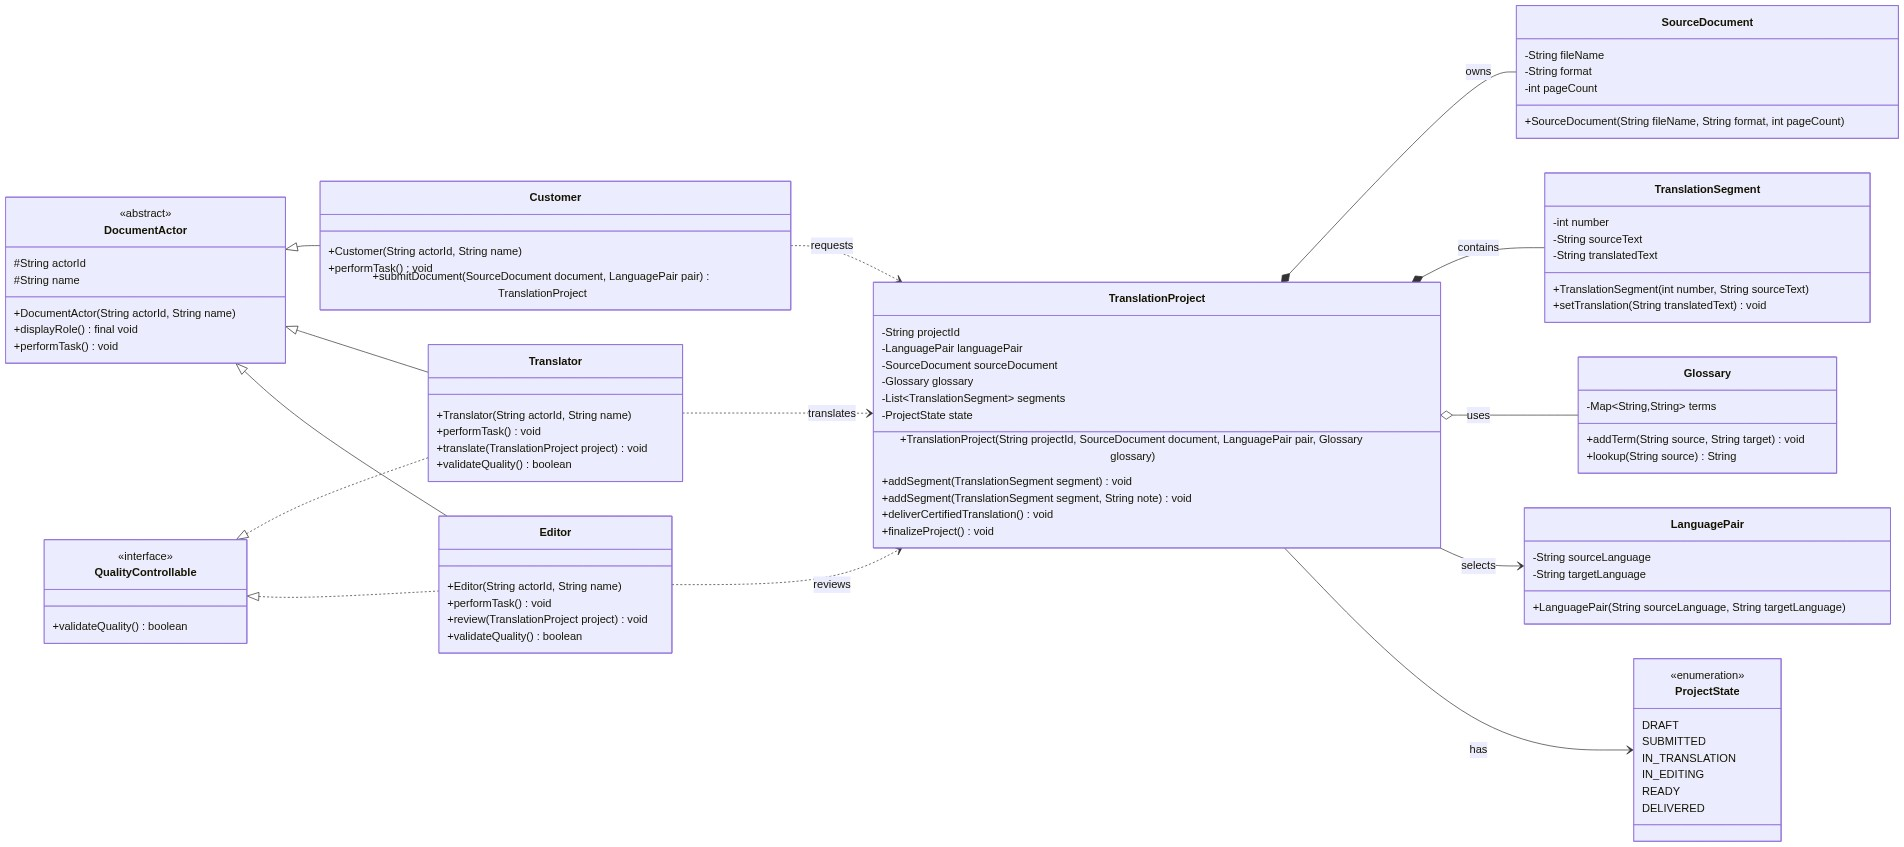
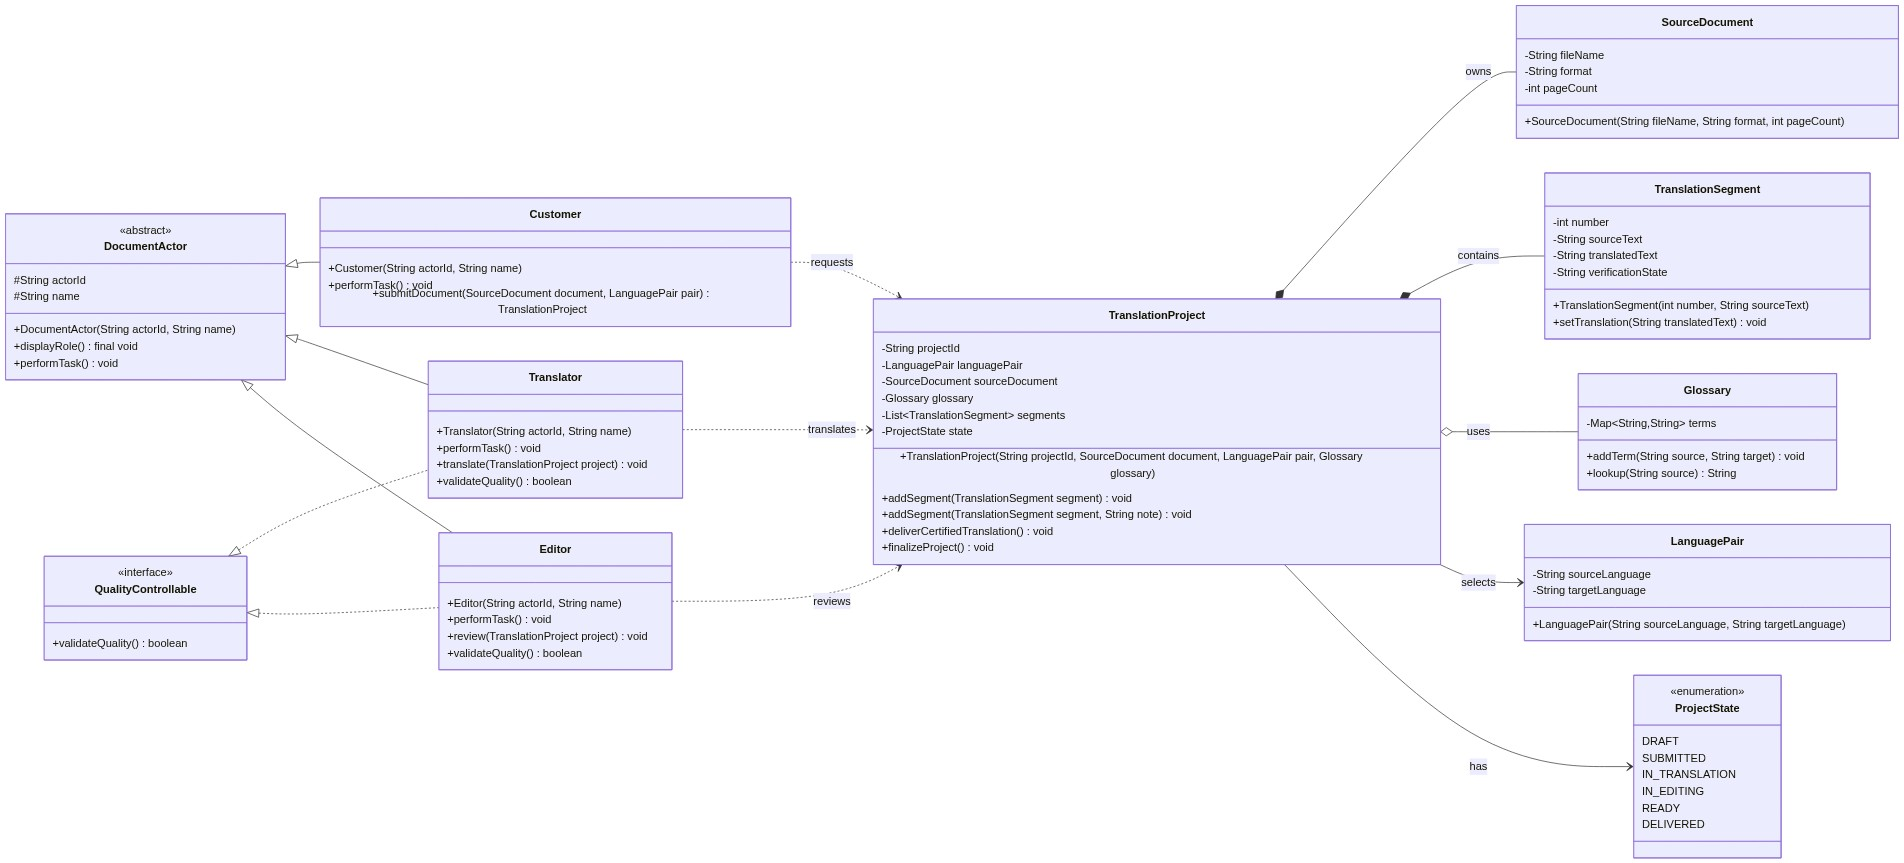
Align segment verification state across artifacts

diff --git a/tools/make_crc.py b/tools/make_crc.py
@@ -10,7 +10,7 @@ rows = [
     ("SourceDocument", "Описує файл оригіналу та його формат.", "TranslationProject, Customer"),
     ("LanguagePair", "Зберігає мову оригіналу та мову перекладу.", "TranslationProject, Customer"),
     ("Glossary", "Зберігає терміни та повертає рекомендований відповідник.", "TranslationProject, Translator"),
-    ("TranslationSegment", "Зберігає номер, оригінал і переклад сегмента.", "TranslationProject, Translator, Editor"),
+    ("TranslationSegment", "Зберігає номер, оригінал, переклад і стан перевірки сегмента.", "TranslationProject, Translator, Editor"),
 ]
 
 wb = Workbook()
